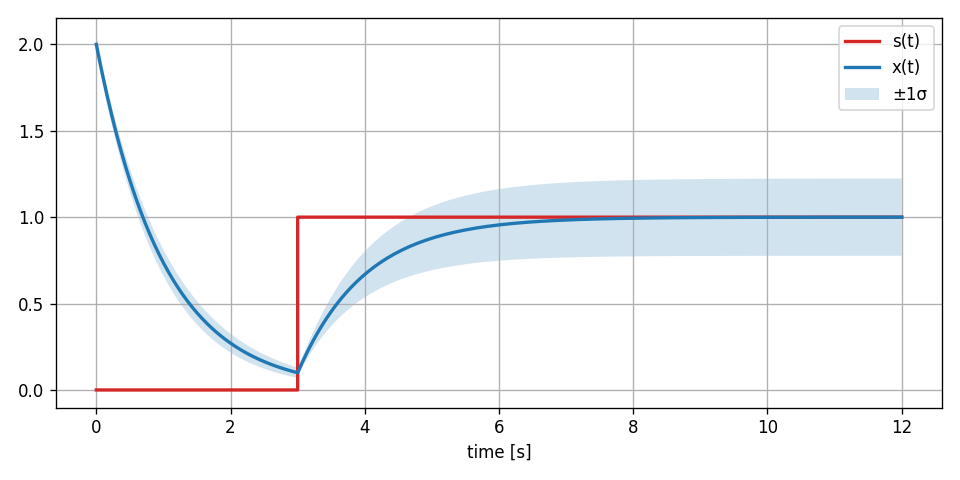
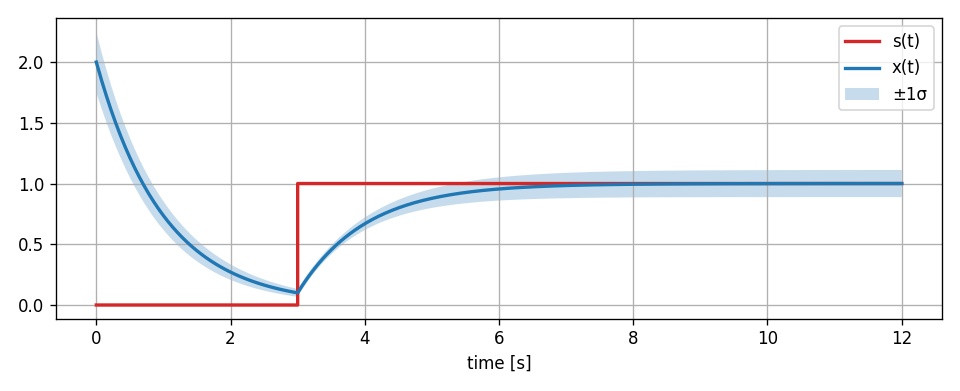
updated docs for uncertainty analysis

Changed region(s): [[0.0, 0.0307, 1.0, 0.9821], [0.0312, 0.0614, 0.0625, 0.1228], [0.0, 0.1535, 0.0625, 0.1841]]

diff --git a/examples/example_sensitivity.py b/examples/example_sensitivity.py
@@ -86,7 +86,7 @@ if __name__ == "__main__":
     #parameter uncertainties
     sigma_a = 0.1    # Standard deviation in feedback gain
     sigma_s = 0.05   # Standard deviation in input amplitude
-    sigma_x0 = 0.5   # Standard deviation in initial condition
+    sigma_x0 = 0.25  # Standard deviation in initial condition
 
     #output variance contribution at each time point
     var_x = (dx_da**2 * sigma_a**2 + 

diff --git a/docs/source/tutorials/automatic_differentiation.rst b/docs/source/tutorials/automatic_differentiation.rst
@@ -219,8 +219,8 @@ We can extend our linear feedback example to incorporate uncertainty:
 
    #parameter uncertainties
    sigma_a = 0.1    # Standard deviation in feedback gain
-   sigma_s = 0.2    # Standard deviation in input amplitude
-   sigma_x0 = 0.05  # Standard deviation in initial condition
+   sigma_s = 0.05   # Standard deviation in input amplitude
+   sigma_x0 = 0.25  # Standard deviation in initial condition
    
    #output variance contribution at each time point
    var_x = (dx_da**2 * sigma_a**2 + 
@@ -234,10 +234,10 @@ We can extend our linear feedback example to incorporate uncertainty:
    #plotting, etc.
 
 
-
 .. image:: figures/linear_feedback_result_uncertainty.png
    :width: 700
    :align: center
    :alt: uncertainties of linear feedback system
 
 
+It should be noted that this kind of uncertainty analysis using taylor approximations only really makes sense in linear systems or in nonlinear systems for small uncertainties (comparable to a small signal analysis, its still an approximation). Otherwise the linearization will not be sufficiently accurate. In the simple feedback system of our example, its not an issue however, because its inherently linear.
